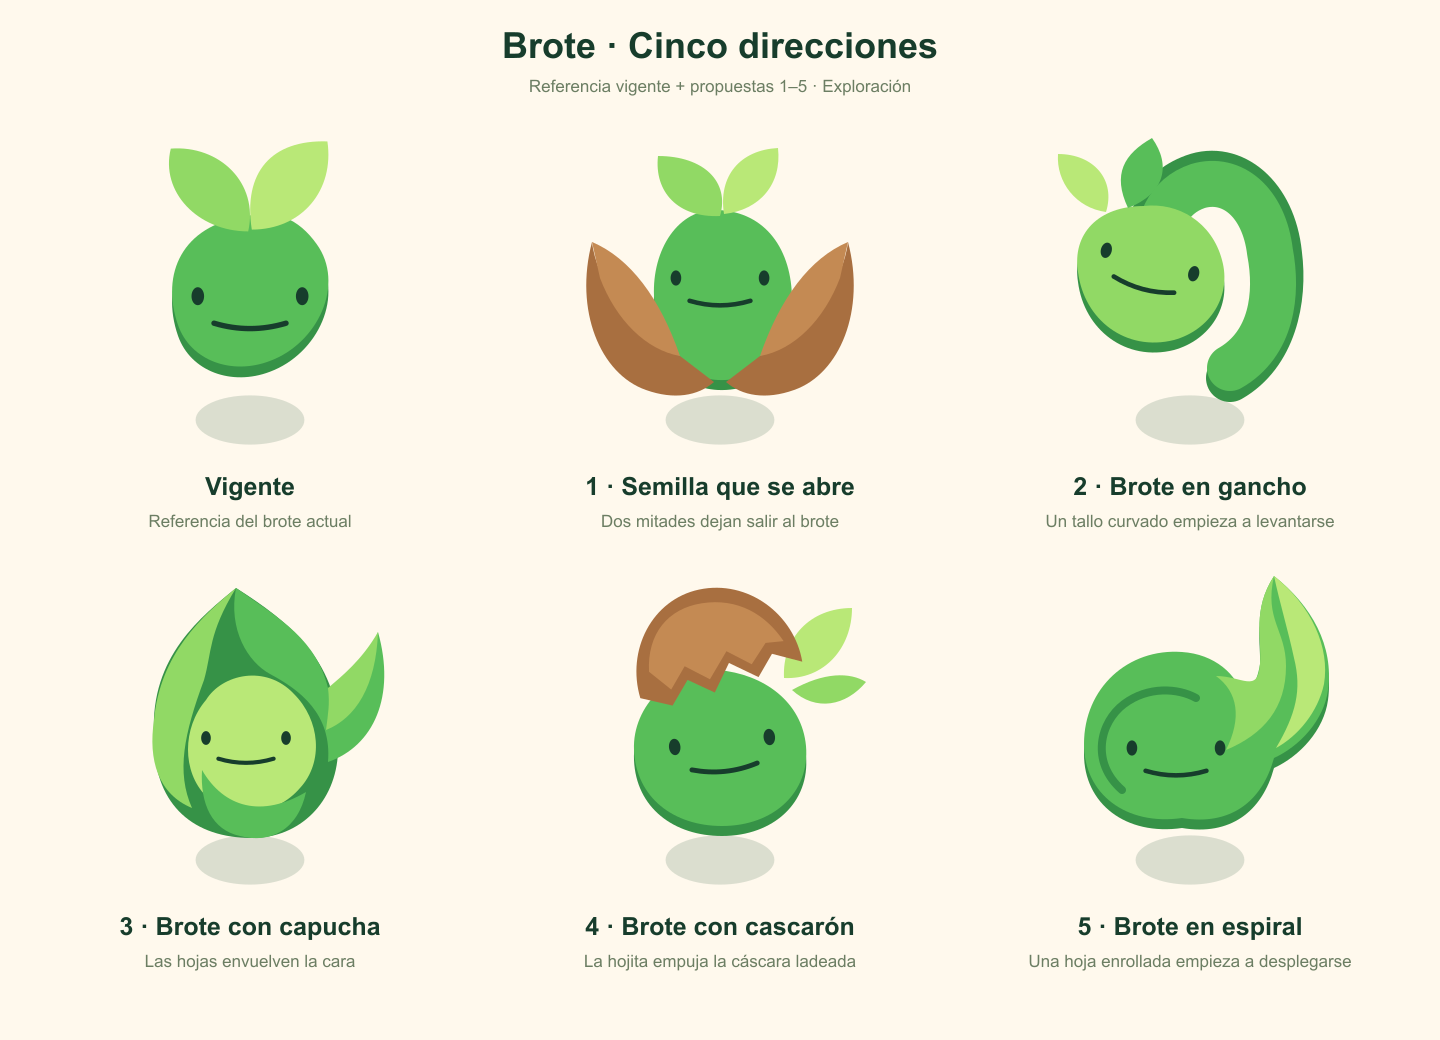
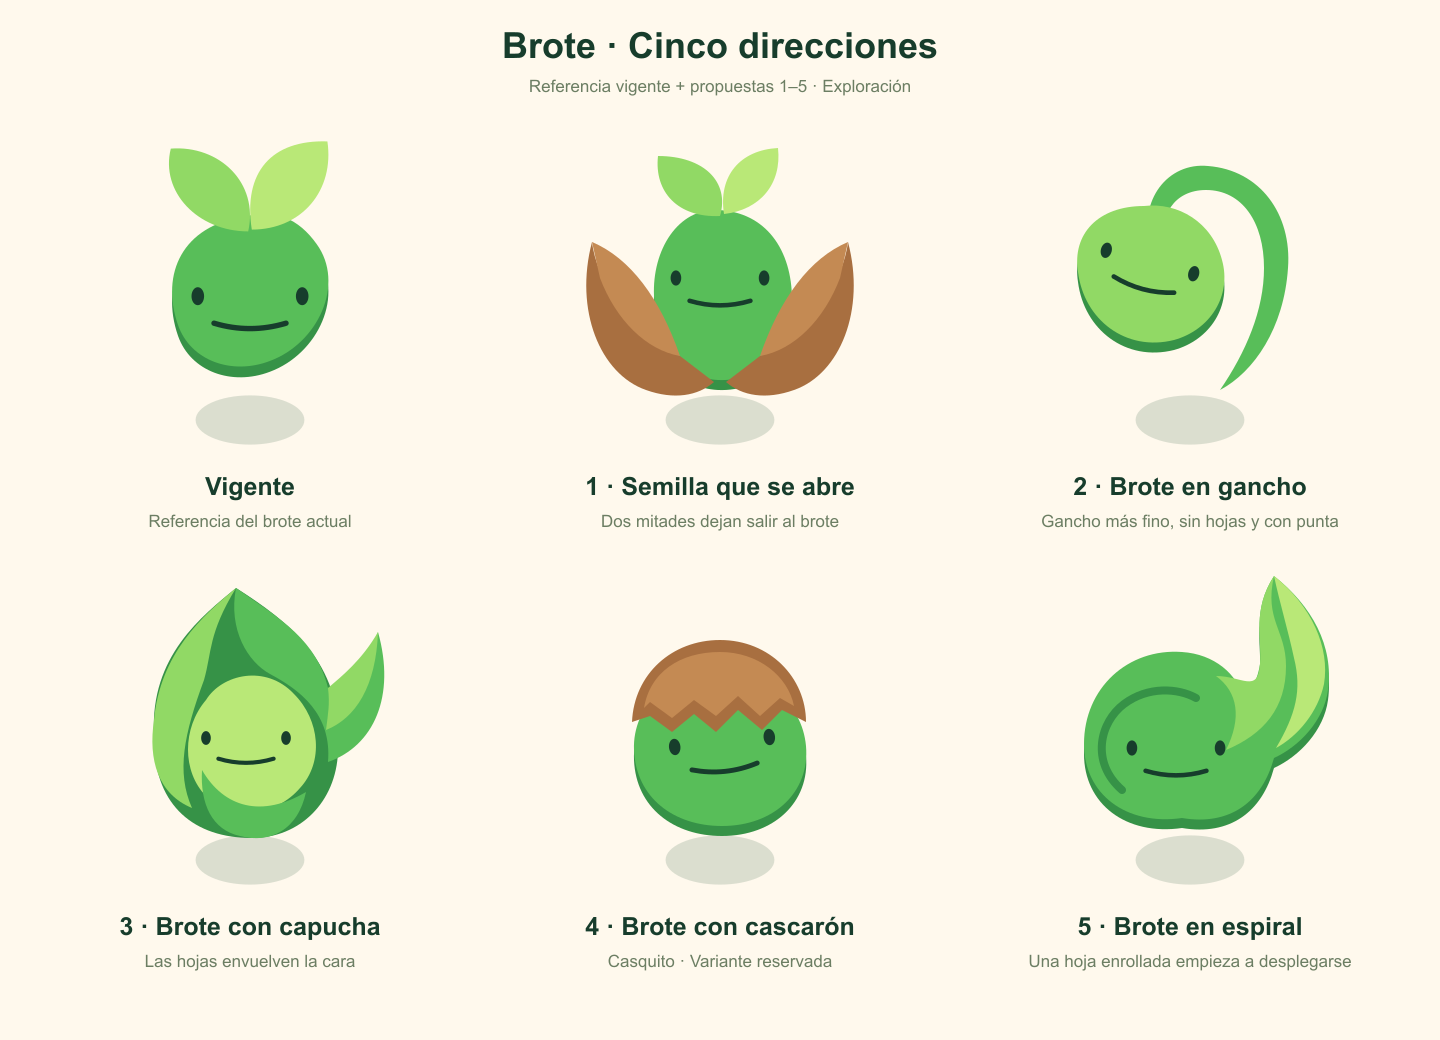
Reserva Casquito y afina la propuesta de Brote en gancho

diff --git a/brand/reed/growth/brote-directions-exploration.html b/brand/reed/growth/brote-directions-exploration.html
@@ -1,1 +1,1 @@
-<!doctype html><html lang="es"><meta charset="utf-8"><meta name="viewport" content="width=device-width,initial-scale=1"><title>Brote · Cinco direcciones</title><style>*{box-sizing:border-box}body{margin:0;background:#FFF9ED;color:#173D2C;font-family:system-ui,sans-serif}main{max-width:1440px;margin:auto;padding:24px}.sheet{width:100%;height:auto}h1{font-size:28px}p,figcaption{color:#6c7e63}section{border-top:1px solid #d9ded4;padding:24px 0}.sizes{display:flex;align-items:center;flex-wrap:wrap;gap:24px;margin-top:16px}figure{margin:0}figcaption{text-align:center;font-size:12px}img{display:block;object-fit:contain}</style><main><h1>Brote · Cinco direcciones</h1><p>Propuestas 1–5 · Exploración</p><img class="sheet" src="brote-directions-exploration.svg" width="1440" height="1040" alt="Referencia vigente y cinco propuestas nuevas"><section><h2>1 · Semilla que se abre</h2><p>Dos mitades dejan salir al brote</p><div class="sizes"><figure><img src="brote-directions-1-semilla-abierta.svg" width="160" height="160" alt="1 · Semilla que se abre"><figcaption>160 px</figcaption></figure><figure><img src="brote-directions-1-semilla-abierta.svg" width="100" height="100" alt="1 · Semilla que se abre"><figcaption>100 px</figcaption></figure><figure><img src="brote-directions-1-semilla-abierta.svg" width="60" height="60" alt="1 · Semilla que se abre"><figcaption>60 px</figcaption></figure><figure><img src="brote-directions-1-semilla-abierta.svg" width="32" height="32" alt="1 · Semilla que se abre"><figcaption>32 px</figcaption></figure></div><div class="sizes"><span>Icono</span><img src="brote-directions-1-semilla-abierta-body.svg" width="60" height="60" alt="Icono de 1 · Semilla que se abre"><img src="brote-directions-1-semilla-abierta-body.svg" width="32" height="32" alt="Icono de 1 · Semilla que se abre"></div></section><section><h2>2 · Brote en gancho</h2><p>Un tallo curvado empieza a levantarse</p><div class="sizes"><figure><img src="brote-directions-2-gancho.svg" width="160" height="160" alt="2 · Brote en gancho"><figcaption>160 px</figcaption></figure><figure><img src="brote-directions-2-gancho.svg" width="100" height="100" alt="2 · Brote en gancho"><figcaption>100 px</figcaption></figure><figure><img src="brote-directions-2-gancho.svg" width="60" height="60" alt="2 · Brote en gancho"><figcaption>60 px</figcaption></figure><figure><img src="brote-directions-2-gancho.svg" width="32" height="32" alt="2 · Brote en gancho"><figcaption>32 px</figcaption></figure></div><div class="sizes"><span>Icono</span><img src="brote-directions-2-gancho-body.svg" width="60" height="60" alt="Icono de 2 · Brote en gancho"><img src="brote-directions-2-gancho-body.svg" width="32" height="32" alt="Icono de 2 · Brote en gancho"></div></section><section><h2>3 · Brote con capucha</h2><p>Las hojas envuelven la cara</p><div class="sizes"><figure><img src="brote-directions-3-capucha.svg" width="160" height="160" alt="3 · Brote con capucha"><figcaption>160 px</figcaption></figure><figure><img src="brote-directions-3-capucha.svg" width="100" height="100" alt="3 · Brote con capucha"><figcaption>100 px</figcaption></figure><figure><img src="brote-directions-3-capucha.svg" width="60" height="60" alt="3 · Brote con capucha"><figcaption>60 px</figcaption></figure><figure><img src="brote-directions-3-capucha.svg" width="32" height="32" alt="3 · Brote con capucha"><figcaption>32 px</figcaption></figure></div><div class="sizes"><span>Icono</span><img src="brote-directions-3-capucha-body.svg" width="60" height="60" alt="Icono de 3 · Brote con capucha"><img src="brote-directions-3-capucha-body.svg" width="32" height="32" alt="Icono de 3 · Brote con capucha"></div></section><section><h2>4 · Brote con cascarón</h2><p>La hojita empuja la cáscara ladeada</p><div class="sizes"><figure><img src="brote-directions-4-cascaron.svg" width="160" height="160" alt="4 · Brote con cascarón"><figcaption>160 px</figcaption></figure><figure><img src="brote-directions-4-cascaron.svg" width="100" height="100" alt="4 · Brote con cascarón"><figcaption>100 px</figcaption></figure><figure><img src="brote-directions-4-cascaron.svg" width="60" height="60" alt="4 · Brote con cascarón"><figcaption>60 px</figcaption></figure><figure><img src="brote-directions-4-cascaron.svg" width="32" height="32" alt="4 · Brote con cascarón"><figcaption>32 px</figcaption></figure></div><div class="sizes"><span>Icono</span><img src="brote-directions-4-cascaron-body.svg" width="60" height="60" alt="Icono de 4 · Brote con cascarón"><img src="brote-directions-4-cascaron-body.svg" width="32" height="32" alt="Icono de 4 · Brote con cascarón"></div></section><section><h2>5 · Brote en espiral</h2><p>Una hoja enrollada empieza a desplegarse</p><div class="sizes"><figure><img src="brote-directions-5-espiral.svg" width="160" height="160" alt="5 · Brote en espiral"><figcaption>160 px</figcaption></figure><figure><img src="brote-directions-5-espiral.svg" width="100" height="100" alt="5 · Brote en espiral"><figcaption>100 px</figcaption></figure><figure><img src="brote-directions-5-espiral.svg" width="60" height="60" alt="5 · Brote en espiral"><figcaption>60 px</figcaption></figure><figure><img src="brote-directions-5-espiral.svg" width="32" height="32" alt="5 · Brote en espiral"><figcaption>32 px</figcaption></figure></div><div class="sizes"><span>Icono</span><img src="brote-directions-5-espiral-body.svg" width="60" height="60" alt="Icono de 5 · Brote en espiral"><img src="brote-directions-5-espiral-body.svg" width="32" height="32" alt="Icono de 5 · Brote en espiral"></div></section></main></html>
+<!doctype html><html lang="es"><meta charset="utf-8"><meta name="viewport" content="width=device-width,initial-scale=1"><title>Brote · Cinco direcciones</title><style>*{box-sizing:border-box}body{margin:0;background:#FFF9ED;color:#173D2C;font-family:system-ui,sans-serif}main{max-width:1440px;margin:auto;padding:24px}.sheet{width:100%;height:auto}h1{font-size:28px}p,figcaption{color:#6c7e63}section{border-top:1px solid #d9ded4;padding:24px 0}.sizes{display:flex;align-items:center;flex-wrap:wrap;gap:24px;margin-top:16px}figure{margin:0}figcaption{text-align:center;font-size:12px}img{display:block;object-fit:contain}</style><main><h1>Brote · Cinco direcciones</h1><p>Propuestas 1–5 · Exploración</p><img class="sheet" src="brote-directions-exploration.svg" width="1440" height="1040" alt="Referencia vigente y cinco propuestas nuevas"><section><h2>1 · Semilla que se abre</h2><p>Dos mitades dejan salir al brote</p><div class="sizes"><figure><img src="brote-directions-1-semilla-abierta.svg" width="160" height="160" alt="1 · Semilla que se abre"><figcaption>160 px</figcaption></figure><figure><img src="brote-directions-1-semilla-abierta.svg" width="100" height="100" alt="1 · Semilla que se abre"><figcaption>100 px</figcaption></figure><figure><img src="brote-directions-1-semilla-abierta.svg" width="60" height="60" alt="1 · Semilla que se abre"><figcaption>60 px</figcaption></figure><figure><img src="brote-directions-1-semilla-abierta.svg" width="32" height="32" alt="1 · Semilla que se abre"><figcaption>32 px</figcaption></figure></div><div class="sizes"><span>Icono</span><img src="brote-directions-1-semilla-abierta-body.svg" width="60" height="60" alt="Icono de 1 · Semilla que se abre"><img src="brote-directions-1-semilla-abierta-body.svg" width="32" height="32" alt="Icono de 1 · Semilla que se abre"></div></section><section><h2>2 · Brote en gancho</h2><p>Gancho más fino, sin hojas y con punta</p><div class="sizes"><figure><img src="brote-directions-2-gancho.svg" width="160" height="160" alt="2 · Brote en gancho"><figcaption>160 px</figcaption></figure><figure><img src="brote-directions-2-gancho.svg" width="100" height="100" alt="2 · Brote en gancho"><figcaption>100 px</figcaption></figure><figure><img src="brote-directions-2-gancho.svg" width="60" height="60" alt="2 · Brote en gancho"><figcaption>60 px</figcaption></figure><figure><img src="brote-directions-2-gancho.svg" width="32" height="32" alt="2 · Brote en gancho"><figcaption>32 px</figcaption></figure></div><div class="sizes"><span>Icono</span><img src="brote-directions-2-gancho-body.svg" width="60" height="60" alt="Icono de 2 · Brote en gancho"><img src="brote-directions-2-gancho-body.svg" width="32" height="32" alt="Icono de 2 · Brote en gancho"></div></section><section><h2>3 · Brote con capucha</h2><p>Las hojas envuelven la cara</p><div class="sizes"><figure><img src="brote-directions-3-capucha.svg" width="160" height="160" alt="3 · Brote con capucha"><figcaption>160 px</figcaption></figure><figure><img src="brote-directions-3-capucha.svg" width="100" height="100" alt="3 · Brote con capucha"><figcaption>100 px</figcaption></figure><figure><img src="brote-directions-3-capucha.svg" width="60" height="60" alt="3 · Brote con capucha"><figcaption>60 px</figcaption></figure><figure><img src="brote-directions-3-capucha.svg" width="32" height="32" alt="3 · Brote con capucha"><figcaption>32 px</figcaption></figure></div><div class="sizes"><span>Icono</span><img src="brote-directions-3-capucha-body.svg" width="60" height="60" alt="Icono de 3 · Brote con capucha"><img src="brote-directions-3-capucha-body.svg" width="32" height="32" alt="Icono de 3 · Brote con capucha"></div></section><section><h2>4 · Brote con cascarón</h2><p>Casquito · Variante reservada</p><div class="sizes"><figure><img src="brote-directions-4-cascaron.svg" width="160" height="160" alt="4 · Brote con cascarón"><figcaption>160 px</figcaption></figure><figure><img src="brote-directions-4-cascaron.svg" width="100" height="100" alt="4 · Brote con cascarón"><figcaption>100 px</figcaption></figure><figure><img src="brote-directions-4-cascaron.svg" width="60" height="60" alt="4 · Brote con cascarón"><figcaption>60 px</figcaption></figure><figure><img src="brote-directions-4-cascaron.svg" width="32" height="32" alt="4 · Brote con cascarón"><figcaption>32 px</figcaption></figure></div><div class="sizes"><span>Icono</span><img src="brote-directions-4-cascaron-body.svg" width="60" height="60" alt="Icono de 4 · Brote con cascarón"><img src="brote-directions-4-cascaron-body.svg" width="32" height="32" alt="Icono de 4 · Brote con cascarón"></div></section><section><h2>5 · Brote en espiral</h2><p>Una hoja enrollada empieza a desplegarse</p><div class="sizes"><figure><img src="brote-directions-5-espiral.svg" width="160" height="160" alt="5 · Brote en espiral"><figcaption>160 px</figcaption></figure><figure><img src="brote-directions-5-espiral.svg" width="100" height="100" alt="5 · Brote en espiral"><figcaption>100 px</figcaption></figure><figure><img src="brote-directions-5-espiral.svg" width="60" height="60" alt="5 · Brote en espiral"><figcaption>60 px</figcaption></figure><figure><img src="brote-directions-5-espiral.svg" width="32" height="32" alt="5 · Brote en espiral"><figcaption>32 px</figcaption></figure></div><div class="sizes"><span>Icono</span><img src="brote-directions-5-espiral-body.svg" width="60" height="60" alt="Icono de 5 · Brote en espiral"><img src="brote-directions-5-espiral-body.svg" width="32" height="32" alt="Icono de 5 · Brote en espiral"></div></section></main></html>

diff --git a/brand/reed/growth/brote-directions-exploration.md b/brand/reed/growth/brote-directions-exploration.md
@@ -5,11 +5,27 @@
 ![Referencia y cinco propuestas](brote-directions-exploration.png)
 
 - **1 · Semilla que se abre**: Dos mitades dejan salir al brote.
-- **2 · Brote en gancho**: Un tallo curvado empieza a levantarse.
+- **2 · Brote en gancho**: Gancho más fino, sin hojas y con punta.
 - **3 · Brote con capucha**: Las hojas envuelven la cara.
-- **4 · Brote con cascarón**: La hojita empuja la cáscara ladeada.
+- **4 · Brote con cascarón**: Cáscara centrada como casquito, sin hojas.
 - **5 · Brote en espiral**: Una hoja enrollada empieza a desplegarse.
 
 Brote sigue siendo la etapa anterior a Plántula, con ID histórico `seedling`. Se reutiliza la geometría facial de `mascotFace`, con posición, escala uniforme y giro propios de cada propuesta. Colores planos tomados de Brote y Semilla, sin texturas ni degradados. La sombra de suelo permanece separada del cuerpo.
 
 Cada propuesta dispone de un SVG completo y otro solo de cuerpo, fuera del registro de la app. El estudio HTML permite comprobar tamaños de 160, 100, 60 y 32 px, e iconos sin cara a 60 y 32 px. La referencia vigente permanece intacta.
+
+## Refinamiento de la 4 · Casquito
+
+A petición del usuario, se retiran las dos hojas y se coloca la cáscara sin inclinación, centrada sobre la cabeza. Se mantienen exactamente los trazados del cuerpo verde, su cara, colores y sombra. Propuesta en revisión, sin activar en la app.
+
+![Brote con casquito](brote-directions-4-casquito-preview.png)
+
+Segundo ajuste: cáscara más pequeña, ceñida al contorno exacto de la cabeza. El borde superior comparte la silueta del cuerpo y no sobresale por ninguno de los lados. Se conservan cuerpo, cara y sombra.
+
+Tercer ajuste: versión intermedia entre la cáscara amplia y la ceñida. Se recupera una bóveda baja sobre la cabeza y un pequeño saliente equilibrado a ambos lados, manteniendo el cuerpo y la cara.
+
+El usuario aprueba la versión intermedia de Casquito. Se guarda por separado en [Variantes reservadas](brote-variations-future.md).
+
+## Refinamiento de la 2 · Gancho
+
+Se retiran las dos hojas y se sustituye el tallo grueso de extremo redondo por un gancho fino que acaba en punta. Se conservan exactamente la cabeza y la cara de la propuesta 2. Sigue en revisión.

diff --git a/brand/reed/growth/brote-variations-future.md b/brand/reed/growth/brote-variations-future.md
@@ -1,0 +1,15 @@
+# Brote · Variantes reservadas
+
+13 de octubre de 2026. El usuario aprueba Casquito como primera variante reservada. El brote activo de producción se conserva.
+
+## Casquito
+
+![Brote con casquito](brote-variations-casquito.png)
+
+Sin hojas, cuerpo verde redondeado y cáscara centrada con un pequeño saliente equilibrado a ambos lados. Se conserva exactamente la versión intermedia aprobada, sin cambios de cuerpo, cara, colores o sombra.
+
+- [Personaje completo, SVG](brote-variations-casquito.svg).
+- [Personaje completo, PNG transparente](brote-variations-casquito.png).
+- [Cuerpo sin cara ni sombra, SVG](brote-variations-casquito-body.svg).
+
+Cara común de `seedling`, colocación x=81, y=90, giro=−6°, escala=0,82, ojos sin desplazamientos y boca de 5×. El personaje completo tiene desplazamiento vertical −9 unidades y sombra de suelo independiente. Estos valores pertenecen a esta variante reservada, no a la mascota activa.
